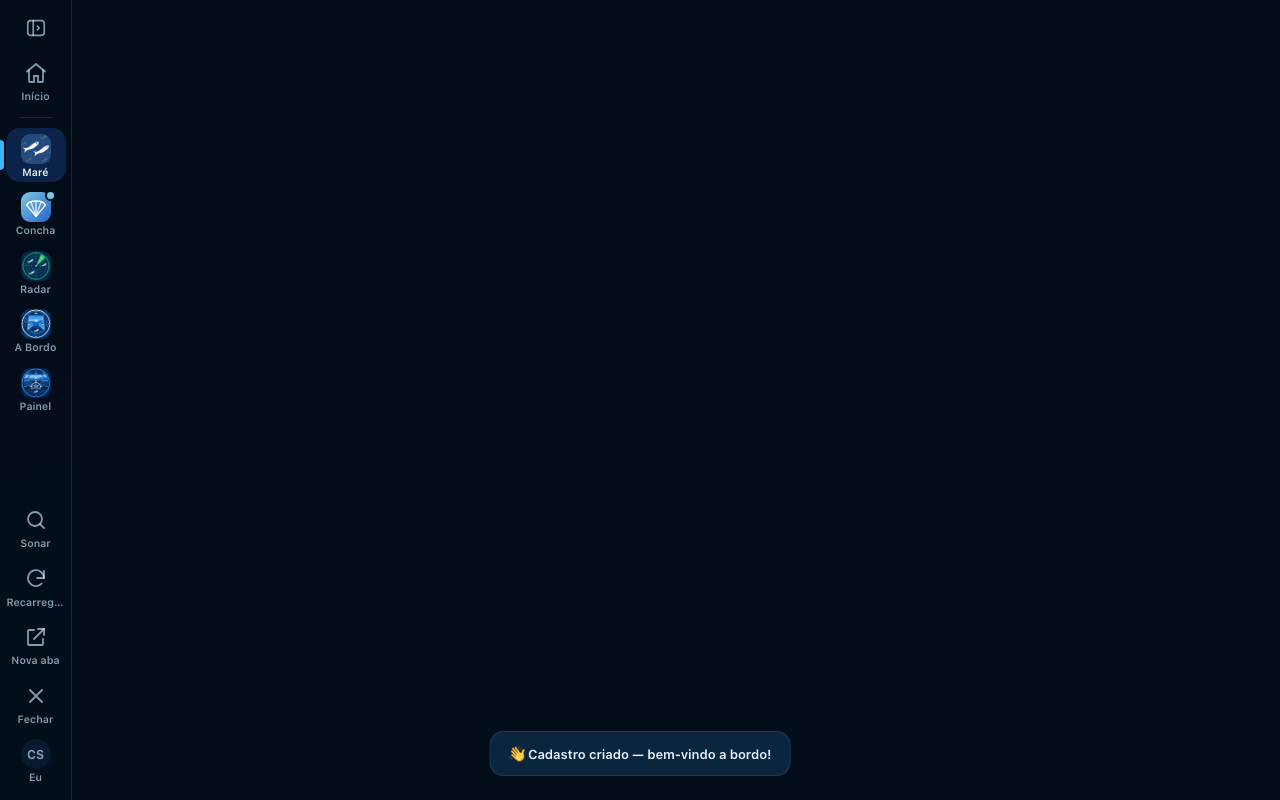
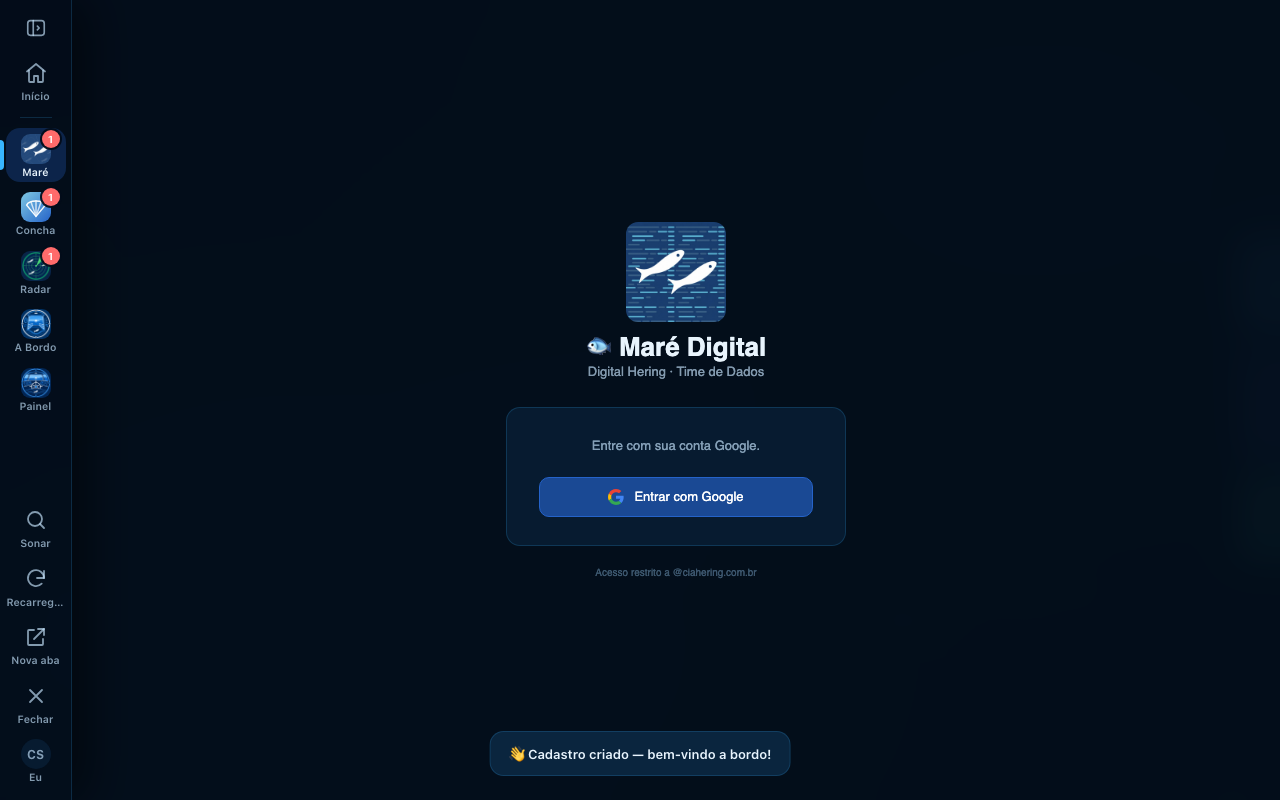
feat(oceano): 🔢 número de notificações não lidas em cada app do menu lateral (v2.07, só dev)
Agent: claude

diff --git a/oceano-dev.html b/oceano-dev.html
@@ -460,6 +460,8 @@ body.com-rail .col-apps{display:none;}
 .rail-it[aria-current="page"]::before{content:"";position:absolute;left:-6px;top:12px;bottom:12px;width:4px;border-radius:0 4px 4px 0;background:var(--accent);}
 .rail-it .rail-aberto{position:absolute;top:6px;right:12px;width:7px;height:7px;border-radius:50%;background:var(--cyan);box-shadow:0 0 0 2px rgba(var(--deep-rgb),.9);}
 .rail-it[hidden]{display:none;}
+.rail-it .rail-n{position:absolute;top:2px;right:6px;min-width:18px;height:18px;padding:0 5px;border-radius:9px;background:var(--danger,#ef4444);color:#fff;font:700 10px/18px system-ui,sans-serif;text-align:center;box-shadow:0 0 0 2px rgba(var(--deep-rgb),.95);pointer-events:none;}
+body.rail-larga .rail-it .rail-n{top:50%;right:10px;transform:translateY(-50%);}
 @media (max-width:899px){
   body.com-rail,body.com-rail.rail-larga{--rail-w:0px;}
   body.com-rail #rail,body.rail-larga #rail{top:auto;right:0;width:auto;align-items:center;height:calc(62px + env(safe-area-inset-bottom));flex-direction:row;justify-content:space-around;padding:4px 4px env(safe-area-inset-bottom);border-right:0;border-top:1px solid var(--glass-b);}
@@ -475,6 +477,8 @@ body.com-rail .col-apps{display:none;}
   body.rail-larga .rail-apps,body.rail-larga .rail-fim{align-items:center;}
   .rail-it .tile-logo,.rail-it .rail-ic,.rail-it .rail-av{width:26px;height:26px;}
   .rail-it .rail-svg{width:22px;height:22px;margin:2px;}
+  .rail-it .rail-n{top:0;right:calc(50% - 22px);}
+  body.rail-larga .rail-it .rail-n{top:0;right:calc(50% - 22px);transform:none;}
   .rail-it[aria-current="page"]::before{left:14px;right:14px;top:-4px;bottom:auto;width:auto;height:3px;border-radius:0 0 3px 3px;}
 }
 .toast{position:fixed;left:50%;bottom:24px;transform:translateX(-50%) translateY(20px);z-index:300;background:rgba(10,37,64,.96);color:#e8f4fd;border:1px solid var(--glass-b);padding:11px 18px;border-radius:var(--r2);font-size:13px;font-weight:600;opacity:0;pointer-events:none;transition:.25s;max-width:92vw;}
@@ -853,7 +857,7 @@ window.dispatchEvent(new Event('fb-ready'));
 <script>
 (function(){
 'use strict';
-const VERSION = 'v2.06 · oceano-dev', VERSION_KEY = 'oceano_dev';
+const VERSION = 'v2.07 · oceano-dev', VERSION_KEY = 'oceano_dev';
 const IS_DEV = /-dev\.html/.test(location.pathname);
 const SO_HERING = window.MARE_SO_HERING !== false;
 const CONTATO = {email:'caio.soares@ciahering.com.br', nome:'o time Digital'};
@@ -1278,10 +1282,25 @@ function iniciarSino(){
   if(sinoApi || !window.MareNotif || !U) return;
   sinoApi = MareNotif.sino($('#btn-sino'), {
     user:U, isAdm:()=>ehAdm, toast, filtro:filtrarSino, abrir:abrirDoSino,
-    aoAbrir:()=>{ if(window.MareDicas) MareDicas.gatilho('sino'); }
+    aoAbrir:()=>{ if(window.MareDicas) MareDicas.gatilho('sino'); },
+    aoMudar:itens=>contarPorApp(itens)
   });
 }
 
+// 🔢 Contador no menu lateral (pedido do Caio, 26/11/2026): as não lidas do sino unificado, por app. Cada notificação já sabe para onde leva
+// (o mesmo link que o sino abre: urlPessoal/urlFeed do mare-notif) — o nome da página diz o app. Nenhuma leitura nova no banco.
+let railN = {};
+function appDaNotif(it){
+  let u = null;
+  try{ const r = it.k==='feed' ? MareNotif.urlFeed(it.raw) : MareNotif.urlPessoal(it.raw); u = typeof r==='string' ? r : (r && !r.externo ? r.url : null); }catch(e){}
+  const m = /^(kanban|okr|painel|cardume)(-dev)?\.html/.exec(String(u||''));
+  return m ? m[1] : '';
+}
+function contarPorApp(itens){
+  const n = {};
+  (itens||[]).forEach(it=>{ if(!it || !it.unread) return; const a = appDaNotif(it); if(a) n[a] = (n[a]||0) + 1; });
+  railN = n; try{ renderRail(); }catch(e){}
+}
 // ── Quem vê o quê (vitrine, não segurança — igual ao menu de 9 pontinhos) ──
 function visivel(a){ if(a.id==='painel') return !!(ehAdm || usoApps.painel); return true; }
 
@@ -1461,8 +1480,10 @@ function renderRail(){
   if(!RAIL_ON || !$('#rail-apps')) return;
   const ativo = host.atual || 'lobby';
   $('#rail-apps').innerHTML = RAIL_ORDEM.map(APP).filter(a=>a && !a.futuro && a.href && visivel(a)).map(a=>{
-    const curto = a.id==='kanban' ? 'Maré' : a.nome;
-    return '<button class="rail-it" type="button" data-rail="'+a.id+'" title="'+esc(a.nome)+'" aria-label="'+esc(a.nome)+(host.abertos.includes(a.id)?' (aberto)':'')+'"'+(ativo===a.id?' aria-current="page"':'')+'>'+logoQuad(a,'-r')+'<span class="rail-rot">'+esc(curto)+'</span>'+(host.abertos.includes(a.id) && ativo!==a.id ? '<span class="rail-aberto" aria-hidden="true"></span>' : '')+'</button>';
+    const curto = a.id==='kanban' ? 'Maré' : a.nome, n = railN[a.id]||0;
+    const nTxt = n ? ', '+n+(n===1?' notificação não lida':' notificações não lidas') : '';
+    return '<button class="rail-it" type="button" data-rail="'+a.id+'" title="'+esc(a.nome)+'" aria-label="'+esc(a.nome)+(host.abertos.includes(a.id)?' (aberto)':'')+nTxt+'"'+(ativo===a.id?' aria-current="page"':'')+'>'+logoQuad(a,'-r')+'<span class="rail-rot">'+esc(curto)+'</span>'
+      +(n ? '<span class="rail-n" aria-hidden="true">'+(n>99?'99+':n)+'</span>' : (host.abertos.includes(a.id) && ativo!==a.id ? '<span class="rail-aberto" aria-hidden="true"></span>' : ''))+'</button>';
   }).join('');
   const lb = $('#rail [data-rail="lobby"]'); if(ativo==='lobby') lb.setAttribute('aria-current','page'); else lb.removeAttribute('aria-current');
   ['rail-recarregar','rail-aba','rail-fechar'].forEach(i=>{ $('#'+i).hidden = !host.atual; });

diff --git a/docs/arezzo/testes/test_oceano_menu_lateral.js b/docs/arezzo/testes/test_oceano_menu_lateral.js
@@ -6,7 +6,15 @@ const fake = require('./fakefb.js');
 const base = process.env.BASE_URL || 'http://127.0.0.1:8952';
 const OUT = path.join(__dirname, '../../capturas/oceano-menu'); fs.mkdirSync(OUT, { recursive: true });
 const U = (uid, nome) => ({ uid, email: uid + '@ciahering.com.br', displayName: nome, photoURL: '', providerData: [{ providerId: 'google.com' }] });
-const seed = (adm) => ({ kanban: { usuarios: { cai: { role: adm ? 'adm' : 'membro', nome: 'Caio', squads: { dados: true } } }, config: { adm_emails: adm ? ['cai@ciahering.com.br'] : [] } } });
+const agISO = m => new Date(Date.now() - m * 60000).toISOString();
+const NOTIFS = {
+  n1: { type: 'assigned', title: 'Card atribuído a você', cardId: 'c1', squad: 'dados', ts: agISO(5), read: false },
+  n2: { type: 'cardume_mencao', title: 'Ana te mencionou na Concha', cardumeRef: 'r1', ts: agISO(4), read: false },
+  n3: { type: 'cardume_mencao', title: 'Bia te mencionou na Concha', cardumeRef: 'r2', ts: agISO(3), read: false },
+  n4: { type: 'okr_mencao', title: 'Menção no Radar', ts: agISO(2), read: false },
+  n5: { type: 'assigned', title: 'Já lida', cardId: 'c2', squad: 'dados', ts: agISO(1), read: true },
+};
+const seed = (adm) => ({ kanban: { usuarios: { cai: { role: adm ? 'adm' : 'membro', nome: 'Caio', squads: { dados: true }, notificacoes: NOTIFS } }, config: { adm_emails: adm ? ['cai@ciahering.com.br'] : [] } } });
 let ok = true, total = 0;
 const t = (n, c, d) => { total++; if (!c) ok = false; console.log((c ? '✅ ' : '❌ ') + n + (c ? '' : '  ← ' + String(JSON.stringify(d)).slice(0, 400))); };
 (async () => {
@@ -31,6 +39,13 @@ const t = (n, c, d) => { total++; if (!c) ok = false; console.log((c ? '✅ ' : 
     t('o menu aparece depois do login', await p.evaluate(() => document.body.classList.contains('com-rail') && getComputedStyle(document.getElementById('rail')).display === 'flex'), 0);
     let it = await itens(p);
     t('ordem: Oceano (início, atual) · Maré · Concha · Radar · A Bordo · Painel; embaixo Sonar e Eu', JSON.stringify(it) === JSON.stringify(['lobby*', 'kanban', 'cardume', 'okr', 'onboarding', 'painel', 'rail-sonar', 'rail-eu']), it);
+    const nums = () => p.evaluate(() => Object.fromEntries([...document.querySelectorAll('#rail [data-rail]')].map(b => [b.dataset.rail, (b.querySelector('.rail-n') || {}).textContent || ''])));
+    let n = await nums();
+    t('🔢 contador por app com as NÃO lidas do sino: Maré 1, Concha 2, Radar 1 (a lida não conta)', n.kanban === '1' && n.cardume === '2' && n.okr === '1' && n.lobby === '' && n.onboarding === '', n);
+    t('o contador entra no nome acessível ("Concha, 2 notificações não lidas")', await p.evaluate(() => /Concha.*2 notificações não lidas/.test(document.querySelector('#rail [data-rail="cardume"]').getAttribute('aria-label'))), 0);
+    await p.evaluate(async () => { const m = await import('https://www.gstatic.com/firebasejs/10.12.0/firebase-database.js'); await m.update(m.ref(null, 'kanban/usuarios/cai/notificacoes/n2'), { read: true }); });
+    await p.waitForTimeout(400); n = await nums();
+    t('lida uma da Concha (em qualquer app), o número cai para 1', n.cardume === '1', n);
     t('o início é uma casinha de traço (SVG, sem emoji), com o nome "Início"', await p.evaluate(() => { const b = document.querySelector('#rail [data-rail="lobby"]'); return !!b.querySelector('svg.rail-svg') && b.textContent.trim() === 'Início'; }), 0);
     t('os botões de baixo também são ícones de traço (sem emoji)', await p.evaluate(() => ['rail-sonar', 'rail-recarregar', 'rail-aba', 'rail-fechar'].every(i => !!document.querySelector('#' + i + ' svg.rail-svg'))), 0);
     t('com o menu, os cartões de apps saem do Início (o menu já mostra todos)', await p.evaluate(() => !document.getElementById('tiles').getClientRects().length && !!document.getElementById('col-meta')), 0);
@@ -42,7 +57,7 @@ const t = (n, c, d) => { total++; if (!c) ok = false; console.log((c ? '✅ ' : 
     it = await itens(p);
     t('Concha vira o atual; aparecem ↻ Nova aba ✕', it.includes('cardume*') && it.includes('rail-recarregar') && it.includes('rail-aba') && it.includes('rail-fechar'), it);
     await p.click('#rail [data-rail="kanban"]'); await p.waitForTimeout(400);
-    t('trocar para o Maré mantém a Concha aberta (bolinha de "aberto")', await p.evaluate(() => !!document.querySelector('#rail [data-rail="cardume"] .rail-aberto') && document.querySelectorAll('#host-frames iframe').length === 2), 0);
+    t('trocar para o Maré mantém a Concha aberta (bolinha de "aberto", ou o número, que tem prioridade)', await p.evaluate(() => !!document.querySelector('#rail [data-rail="cardume"] .rail-aberto, #rail [data-rail="cardume"] .rail-n') && document.querySelectorAll('#host-frames iframe').length === 2), 0);
     await p.screenshot({ path: path.join(OUT, 'pc_app_recolhido.png') });
     await p.click('#rail-tog'); await p.waitForTimeout(300);
     t('» expande: menu de 212px com nome ao lado do ícone, o app acompanha', await p.evaluate(() => document.getElementById('rail').getBoundingClientRect().width === 212 && document.getElementById('host').getBoundingClientRect().left === 212 && localStorage.getItem('oceano_rail_larga') === '1'), await p.evaluate(() => document.getElementById('rail').getBoundingClientRect().width));

diff --git a/docs/CODE_SYMBOLS.md b/docs/CODE_SYMBOLS.md
@@ -334,22 +334,22 @@
 - _okrDsCloseCfg:L10790 · _okrDsRenderCfgModal:L10796 · _okrDsSaveForm:L10869 · _okrDsDelete:L10925 · _okrDsMove:L10952 · _auGetCurrentVersion:L10997 · _auModalOpen:L11001 · _auTyping:L11006 · _auShowBanner:L11014 · _auTryIdleReload:L11025
 - _auCheckVersion:L11031
 
-## `oceano-dev.html` (2691 linhas · 127 funções)
-- **CSS:** L21–L589 | **JS:** L14–L20 (classic), L808–L844 (module), L853–L2688 (classic) | **Módulos:** mare-login-dev.js?v=3 (L807), mare-notif-dev.js?v=53 (L846), mare-plantao-dev.js?v=5 (L847), mare-dicas-dev.js?v=19 (L848), mare-metas-dev.js?v=19 (L849), mare-sonar-dev.js?v=8 (L850), mare-perfil-dev.js?v=1 (L851)
-- **Consts (63):** firebaseConfig:L813 · fbApp:L823 · db:L824 · auth:L825 · provider:L826 · VERSION:L856 · IS_DEV:L857 · SO_HERING:L858 · CONTATO:L859 · $:L860 · esc:L861 · _hrefOk:L863 · reduzMov:L864 · standalone:L865 · SVG_PAINEL:L868 · SVG_BORDO:L869 · SVG_CONCHA:L870 · SVG_TRAV:L871 · P:L872 · NEXT:L877 · APPS:L878 · RAIL_ON:L887 · RAIL_ORDEM:L888 · EXTRA:L889 · APP:L890 · logoPorthole:L895 · logoQuad:L896 · temaDoMare:L899 · peixesDoMare:L900 · PREFS_PADRAO:L901 · PREFS_LS:L905 · TEMAS:L907 · FISH_SVGS:L928 · _fn:L958 · nomeCurto:L959 · iniciais:L960 · AV_TIPOS:L1072 · AV_LIMITE:L1073 · avLargo:L1074 · OK:L1095 (+23)
-- _fcmGetToken:L834 · _fcmDeleteToken:L835 · _signIn:L838 · _signInIdToken:L840 · _signOut:L841 · logoInner:L891 · lsLer:L903 · lsSalvar:L904 · aplicarPrefs:L908 · salvarPrefs:L917
-- toast:L925 · criarPeixes:L933 · atualizarAnimacao:L945 · _animAtividade:L946 · loginErr:L966 · emailHering:L968 · viaGoogle:L969 · lerRamo:L988 · garantirCadastro:L990 · iniciarSessao:L994
-- iniciarMetasOceano:L1022 · metaPodeAtualizar:L1040 · metaOceanoRender:L1045 · mostrarContinuar:L1061 · avLimite:L1075 · avHttp:L1081 · avPodeVer:L1082 · avLimpa:L1094 · avCmp:L1112 · avVistos:L1115
-- avSalvaVistos:L1116 · avBotaoHtml:L1117 · avHtml:L1118 · muralRender:L1130 · avMarcaVistos:L1154 · avAbreBotao:L1162 · avAbre:L1167 · vtexEstado:L1182 · vtexRender:L1194 · iniciarVtex:L1202
-- iniciarMural:L1209 · rotearUrl:L1236 · avisoDeBugFerias:L1240 · filtrarSino:L1244 · abrirDoSino:L1252 · tempoRel:L1266 · iniciarDicas:L1272 · iniciarSino:L1277 · visivel:L1286 · saudacao:L1289
-- renderEu:L1290 · appsDoDia:L1295 · renderTudo:L1296 · renderAbas:L1342 · renderVersoes:L1350 · linkLogo:L1367 · linksCacheSet:L1376 · carregarLinks:L1377 · renderLinks:L1387 · htmlPerfilLinks:L1394
-- renderPerfilLinks:L1400 · gravaLinks:L1405 · salvarLink:L1410 · acaoLink:L1422 · abrirAqui:L1433 · abrirApp:L1434 · lembrarUltimo:L1439 · mostrarHost:L1440 · renderRail:L1460 · renderHostTabs:L1471
-- fecharApp:L1474 · voltarLobby:L1482 · renderAbertos:L1487 · aberturasChave:L1496 · contarAbertura:L1497 · ehVeterano:L1499 · irAba:L1500 · rotearHash:L1507 · __oceanoHost:L1527 · abrirModal:L1531
-- fecharModal:L1532 · carregarCartao:L1545 · valorCartao:L1557 · marcarCartao:L1569 · salvarCartao:L1570 · abrirPerfil:L1585 · renderFaq:L1671 · abrirAjuda:L1676 · feriasHoje:L1705 · feriasAtivo:L1706
-- feriasExpandido:L1714 · feriasSetExpandido:L1715 · feriasDispensados:L1719 · feriasDispensar:L1720 · feriasMdLite:L1722 · feriasBugEhMeu:L1728 · feriasMeusBugsAtivos:L1735 · feriasStatusMeta:L1739 · feriasAlertasAutor:L1745 · feriasBannerAlertaAutorHtml:L1749
-- feriasRenderBanner:L1764 · feriasNorm:L1981 · feriasResponder:L1995 · feriasHtmlChat:L2048 · feriasHtmlSocorro:L2068 · feriasHtmlStatus:L2087 · feriasHtmlProximos:L2114 · feriasBlocoGuiaDevtoolsHtml:L2127 · feriasHtmlGuia:L2154 · feriasHtmlMeusChamados:L2177
-- feriasHtmlBugs:L2201 · feriasRenderEvidPreview:L2258 · feriasComprimirImagem:L2269 · feriasPreencherDadosTecnicos:L2304 · feriasRenderBugsLista:L2321 · feriasProcessarSnapshotBugs:L2334 · feriasRefBugs:L2354 · feriasIniciarBugsListener:L2359 · feriasCarregarBugs:L2372 · feriasEnviarBug:L2388
-- feriasRenderModal:L2470 · abrirFerias:L2484 · feriasEnviarPergunta:L2500 · instalar:L2571 · mostrarDocumento:L2588 · railLarga:L2602 · iniciarSonar:L2618
+## `oceano-dev.html` (2712 linhas · 129 funções)
+- **CSS:** L21–L593 | **JS:** L14–L20 (classic), L812–L848 (module), L857–L2709 (classic) | **Módulos:** mare-login-dev.js?v=3 (L811), mare-notif-dev.js?v=53 (L850), mare-plantao-dev.js?v=5 (L851), mare-dicas-dev.js?v=19 (L852), mare-metas-dev.js?v=19 (L853), mare-sonar-dev.js?v=8 (L854), mare-perfil-dev.js?v=1 (L855)
+- **Consts (63):** firebaseConfig:L817 · fbApp:L827 · db:L828 · auth:L829 · provider:L830 · VERSION:L860 · IS_DEV:L861 · SO_HERING:L862 · CONTATO:L863 · $:L864 · esc:L865 · _hrefOk:L867 · reduzMov:L868 · standalone:L869 · SVG_PAINEL:L872 · SVG_BORDO:L873 · SVG_CONCHA:L874 · SVG_TRAV:L875 · P:L876 · NEXT:L881 · APPS:L882 · RAIL_ON:L891 · RAIL_ORDEM:L892 · EXTRA:L893 · APP:L894 · logoPorthole:L899 · logoQuad:L900 · temaDoMare:L903 · peixesDoMare:L904 · PREFS_PADRAO:L905 · PREFS_LS:L909 · TEMAS:L911 · FISH_SVGS:L932 · _fn:L962 · nomeCurto:L963 · iniciais:L964 · AV_TIPOS:L1076 · AV_LIMITE:L1077 · avLargo:L1078 · OK:L1099 (+23)
+- _fcmGetToken:L838 · _fcmDeleteToken:L839 · _signIn:L842 · _signInIdToken:L844 · _signOut:L845 · logoInner:L895 · lsLer:L907 · lsSalvar:L908 · aplicarPrefs:L912 · salvarPrefs:L921
+- toast:L929 · criarPeixes:L937 · atualizarAnimacao:L949 · _animAtividade:L950 · loginErr:L970 · emailHering:L972 · viaGoogle:L973 · lerRamo:L992 · garantirCadastro:L994 · iniciarSessao:L998
+- iniciarMetasOceano:L1026 · metaPodeAtualizar:L1044 · metaOceanoRender:L1049 · mostrarContinuar:L1065 · avLimite:L1079 · avHttp:L1085 · avPodeVer:L1086 · avLimpa:L1098 · avCmp:L1116 · avVistos:L1119
+- avSalvaVistos:L1120 · avBotaoHtml:L1121 · avHtml:L1122 · muralRender:L1134 · avMarcaVistos:L1158 · avAbreBotao:L1166 · avAbre:L1171 · vtexEstado:L1186 · vtexRender:L1198 · iniciarVtex:L1206
+- iniciarMural:L1213 · rotearUrl:L1240 · avisoDeBugFerias:L1244 · filtrarSino:L1248 · abrirDoSino:L1256 · tempoRel:L1270 · iniciarDicas:L1276 · iniciarSino:L1281 · appDaNotif:L1293 · contarPorApp:L1299
+- visivel:L1305 · saudacao:L1308 · renderEu:L1309 · appsDoDia:L1314 · renderTudo:L1315 · renderAbas:L1361 · renderVersoes:L1369 · linkLogo:L1386 · linksCacheSet:L1395 · carregarLinks:L1396
+- renderLinks:L1406 · htmlPerfilLinks:L1413 · renderPerfilLinks:L1419 · gravaLinks:L1424 · salvarLink:L1429 · acaoLink:L1441 · abrirAqui:L1452 · abrirApp:L1453 · lembrarUltimo:L1458 · mostrarHost:L1459
+- renderRail:L1479 · renderHostTabs:L1492 · fecharApp:L1495 · voltarLobby:L1503 · renderAbertos:L1508 · aberturasChave:L1517 · contarAbertura:L1518 · ehVeterano:L1520 · irAba:L1521 · rotearHash:L1528
+- __oceanoHost:L1548 · abrirModal:L1552 · fecharModal:L1553 · carregarCartao:L1566 · valorCartao:L1578 · marcarCartao:L1590 · salvarCartao:L1591 · abrirPerfil:L1606 · renderFaq:L1692 · abrirAjuda:L1697
+- feriasHoje:L1726 · feriasAtivo:L1727 · feriasExpandido:L1735 · feriasSetExpandido:L1736 · feriasDispensados:L1740 · feriasDispensar:L1741 · feriasMdLite:L1743 · feriasBugEhMeu:L1749 · feriasMeusBugsAtivos:L1756 · feriasStatusMeta:L1760
+- feriasAlertasAutor:L1766 · feriasBannerAlertaAutorHtml:L1770 · feriasRenderBanner:L1785 · feriasNorm:L2002 · feriasResponder:L2016 · feriasHtmlChat:L2069 · feriasHtmlSocorro:L2089 · feriasHtmlStatus:L2108 · feriasHtmlProximos:L2135 · feriasBlocoGuiaDevtoolsHtml:L2148
+- feriasHtmlGuia:L2175 · feriasHtmlMeusChamados:L2198 · feriasHtmlBugs:L2222 · feriasRenderEvidPreview:L2279 · feriasComprimirImagem:L2290 · feriasPreencherDadosTecnicos:L2325 · feriasRenderBugsLista:L2342 · feriasProcessarSnapshotBugs:L2355 · feriasRefBugs:L2375 · feriasIniciarBugsListener:L2380
+- feriasCarregarBugs:L2393 · feriasEnviarBug:L2409 · feriasRenderModal:L2491 · abrirFerias:L2505 · feriasEnviarPergunta:L2521 · instalar:L2592 · mostrarDocumento:L2609 · railLarga:L2623 · iniciarSonar:L2639
 
 ## `escala-dev.html` (1348 linhas · 80 funções)
 - **CSS:** L8–L204 | **JS:** L261–L1345 (module) | **Módulos:** mare-login-dev.js?v=3 (L260)

diff --git a/docs/MAPA_DO_REPOSITORIO.md b/docs/MAPA_DO_REPOSITORIO.md
@@ -124,7 +124,7 @@ Quem faz o quê (Claude como maestro, Antigravity e Codex), o quadro de "em anda
 | Maré Digital | `kanban.html` v8.30.1020 | `kanban-dev.html` v8.30.1032-dev | `mare-login` v3 · `mare-notif` v53 · `mare-metas` v19 · `mare-dicas` v19 · `mare-sonar` v8 · `mare-timer` v1 · `mare-gcal` v11 · `mare-ferias` v7 |
 | Painel | `painel.html` v5.126 · painel | `painel-dev.html` v5.135 · painel-dev | `mare-notif` v53 · `mare-metas` v19 · `mare-plantao` v5 · `mare-dicas` v19 · `mare-gxl` v2 |
 | Radar | `okr.html` v2.144 · okr | `okr-dev.html` v2.154 · okr-dev | `mare-notif` v53 · `mare-dicas` v19 · `mare-sonar` v8 |
-| Oceano | `oceano.html` v1.90 · oceano | `oceano-dev.html` v2.06 · oceano-dev | `mare-login` v3 · `mare-notif` v53 · `mare-plantao` v5 · `mare-dicas` v19 · `mare-metas` v19 · `mare-sonar` v8 · `mare-perfil` v1 ⚠ prod difere |
+| Oceano | `oceano.html` v1.90 · oceano | `oceano-dev.html` v2.07 · oceano-dev | `mare-login` v3 · `mare-notif` v53 · `mare-plantao` v5 · `mare-dicas` v19 · `mare-metas` v19 · `mare-sonar` v8 · `mare-perfil` v1 ⚠ prod difere |
 | Escala | `escala.html` v1.17 · escala | `escala-dev.html` v1.17 · escala-dev | `mare-login` v3 |
 | Intake | `intake.html` — | `intake-dev.html` — | `mare-login` v3 |
 | Travessia | `travessia.html` — | `travessia-dev.html` — | `mare-login` v3 |

diff --git a/CHANGELOG.md b/CHANGELOG.md
@@ -24,6 +24,10 @@ completo, incluindo commits antigos sem PR/descrição detalhada).
 
 ## kanban.html (produção)
 
+### 🔢 Oceano: número de notificações não lidas em cada app do menu lateral (SÓ DEV, oceano v2.07) — 2026-11-26
+
+- **(SÓ DEV)** Pedido do Caio: no menu lateral, o numerozinho de notificações em cada app. Conta as **não lidas do sino unificado** (o mesmo do 🔔) por app. Cada notificação já sabe para onde leva (`urlPessoal`/`urlFeed` do `mare-notif`), e o nome da página diz o app: Maré, Concha, Radar ou Painel. **Nenhuma leitura nova no banco** (usa o `aoMudar` do sino que o Oceano já tem). Lida em qualquer app, o número cai na hora. O número entra no nome acessível ("Concha, 2 notificações não lidas") e tem prioridade sobre a bolinha de "aberto". Funciona no computador (recolhido e expandido) e na barra do celular. `docs/arezzo/testes/test_oceano_menu_lateral.js` (26).
+
 ### 🏝 Ilha Dinâmica compartilhada (mare-ilha), começando pela Concha (SÓ DEV, cardume v0.53) — 2026-11-26
 
 - **(SÓ DEV)** Pedido do Caio: "quem tiver a ilha deveria ter em todos os apps", começando pela Concha, com uma chave só na conta.
